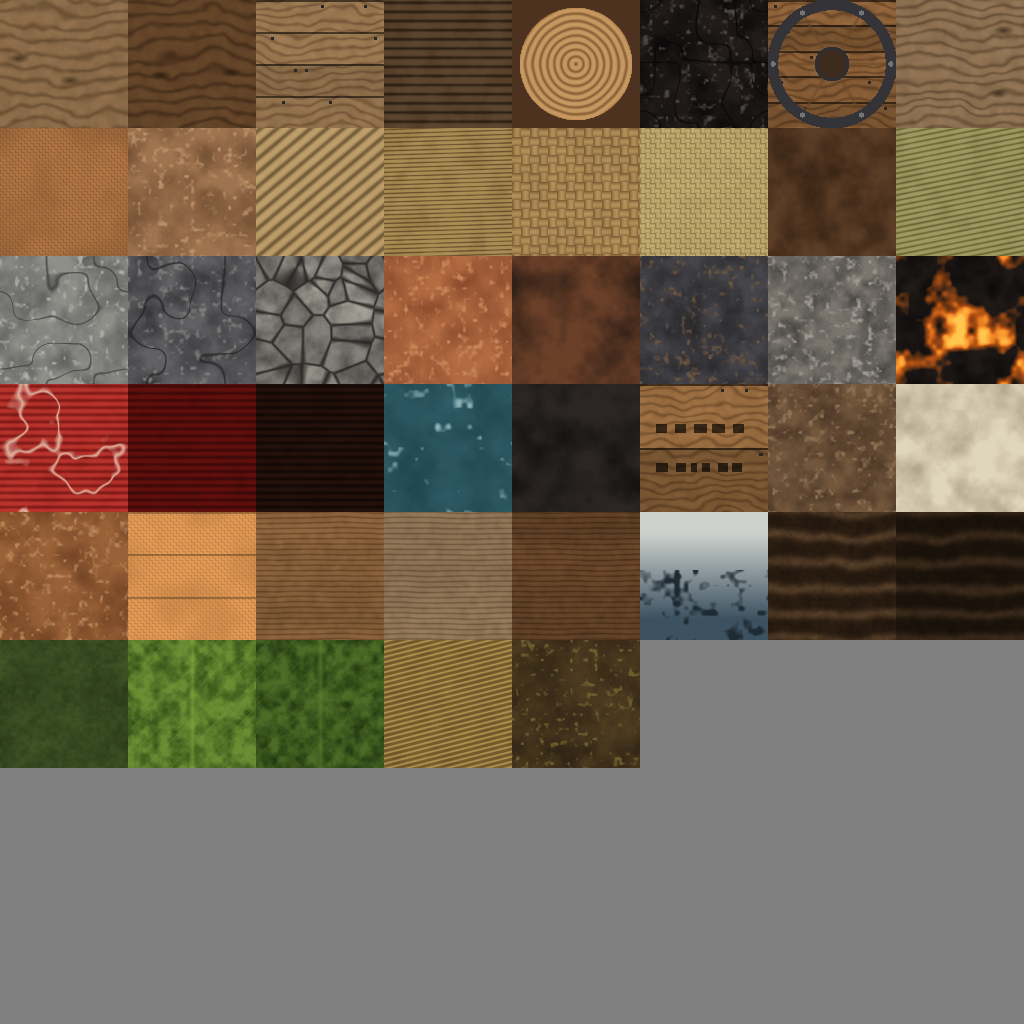
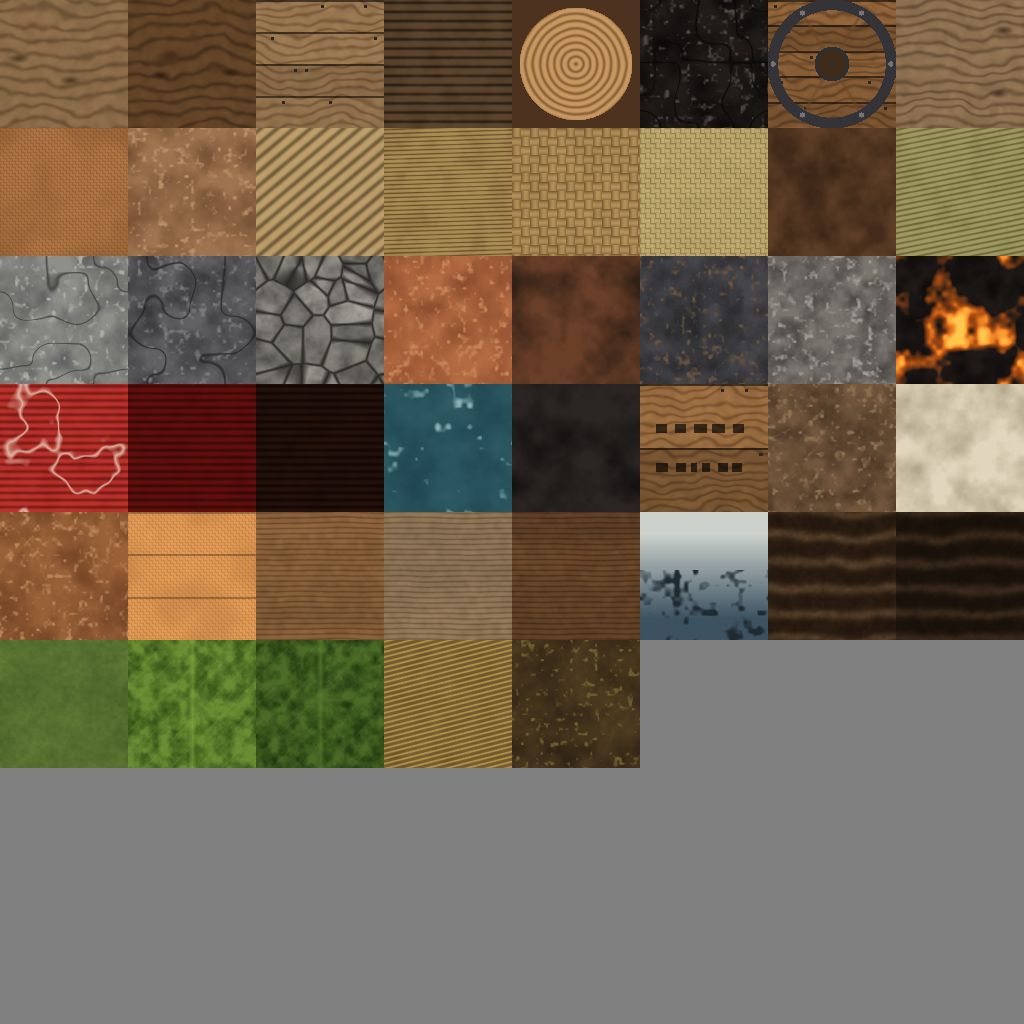
dsc: FARMKIT: farm plots, crop stages, paths and farm...: M2 path group: path_dirt, path_dirt_corner, path_stone, path
Added the four path tiles to farmkit.py: path_dirt (2x2 m grass base + packed dirt square + pebbles), path_dirt_corner (L of packed dirt, grass inside the turn), path_stone (3x3 flat cobbles in a dirt bed), path_stone_corner (L of cobbles). All tiles <= 0.05 m high (max y 0.05). Lightened the grass tile so path edges read against the terrain. GLBs 96-144 tris, 1 material. verify farmkit m2 -> VERIFY STAGE 1 PASS.

Changed region(s): [[0.0, 0.625, 0.125, 0.75]]

diff --git a/tools/blender/structures/farmkit.py b/tools/blender/structures/farmkit.py
@@ -146,55 +146,64 @@ def _grass_base(p, size=2.0):
     p.box((size, size, 0.014), (0, 0, 0.007), "grass", tile_m=1.0)
 
 
-def _corner_grass(p):
-    """The inside of the turn: a grass wedge in one corner, so four corners read as a loop."""
-    p.box((0.98, 0.98, 0.045), (-0.5, -0.5, 0.0225), "grass", tile_m=0.9)
+def _dirt_pad(p, x, y, sx, sy, z=0.012, h=0.03):
+    """A patch of packed dirt on the tile."""
+    p.box((sx, sy, h), (x, y, z + h / 2), "dirt", tile_m=1.0)
 
 
 def path_dirt():
-    """Packed dirt path tile, 2 x 2 m, 0.04 m high, with a grass fringe at the edges."""
+    """Packed dirt path tile, 2 x 2 m, 0.04 m high, its edges blending into the grass."""
     p = Part("path_dirt")
     _grass_base(p)
-    p.box((1.82, 1.82, 0.032), (0, 0, 0.026), "dirt", tile_m=1.0)
+    # the packed surface does not reach the tile edge: grass creeps in from all sides
+    _dirt_pad(p, 0, 0, 1.78, 1.78)
     for i, (x, y, r) in enumerate(((-0.55, 0.42, 0.06), (0.48, -0.3, 0.05), (0.15, 0.62, 0.045), (-0.7, -0.55, 0.05))):
-        p.rock(r, (x, y, 0.042), tile="stone", squash=(1.3, 1.0, 0.5), seed=210 + i)
+        p.rock(r, (x, y, 0.04), tile="stone", squash=(1.3, 1.0, 0.5), seed=210 + i)
     return [(p, (0, 0, 0))]
 
 
 def path_dirt_corner():
-    """Dirt path corner tile: the same surface with a grass wedge in the inside of the turn."""
+    """Dirt path corner tile: the packed surface turns, and the inside of the turn stays grass."""
     p = Part("path_dirt_corner")
     _grass_base(p)
-    p.box((1.82, 1.82, 0.032), (0, 0, 0.026), "dirt", tile_m=1.0)
-    _corner_grass(p)
+    # an L of packed dirt: the strip along +X and the strip along +Y meet in the far corner
+    _dirt_pad(p, 0.0, 0.45, 1.78, 0.88)
+    _dirt_pad(p, 0.45, 0.0, 0.88, 1.78)
     for i, (x, y, r) in enumerate(((0.5, 0.45, 0.055), (-0.2, 0.66, 0.05), (0.62, -0.1, 0.05))):
-        p.rock(r, (x, y, 0.042), tile="stone", squash=(1.3, 1.0, 0.5), seed=220 + i)
+        p.rock(r, (x, y, 0.04), tile="stone", squash=(1.3, 1.0, 0.5), seed=220 + i)
     return [(p, (0, 0, 0))]
 
 
-def _stone_slab(p):
-    p.box((1.86, 1.86, 0.026), (0, 0, 0.027), "soil_dark", tile_m=1.0)
-    stones = ((-0.55, -0.5, 0.46, 0.42), (0.02, -0.52, 0.5, 0.4), (0.6, -0.42, 0.42, 0.5),
-              (-0.6, 0.08, 0.44, 0.46), (0.0, 0.06, 0.52, 0.44), (0.58, 0.12, 0.46, 0.44),
-              (-0.5, 0.66, 0.5, 0.38), (0.1, 0.64, 0.44, 0.42), (0.62, 0.64, 0.42, 0.4))
-    for i, (x, y, w, d) in enumerate(stones):
-        p.box((w, d, 0.026), (x, y, 0.038), "cobble", rot=(0, 0, 12 * (i % 5) - 24), tile_m=0.5)
+def _cobbles(p, cells):
+    """Flat cobble stones on a grid: cells is a list of (col, row) on a 3 x 3 grid over the tile,
+    col 0 at -X and row 0 at -Y."""
+    w = 0.54
+    for i, (c, r) in enumerate(cells):
+        x = -0.6 + c * 0.6
+        y = -0.6 + r * 0.6
+        p.box((w, w, 0.022), (x, y, 0.036), "cobble", rot=(0, 0, 12 * (i % 5) - 24), tile_m=0.5)
 
 
 def path_stone():
     """Stone path tile, 2 x 2 m: flat cobbles bedded in dirt, grass at the edges."""
     p = Part("path_stone")
     _grass_base(p)
-    _stone_slab(p)
+    p.box((1.78, 1.78, 0.024), (0, 0, 0.024), "soil_dark", tile_m=1.0)
+    _cobbles(p, [(c, r) for c in range(3) for r in range(3)])
     return [(p, (0, 0, 0))]
 
 
 def path_stone_corner():
-    """Stone path corner tile: cobbles with a grass wedge in the inside of the turn."""
+    """Stone path corner tile: the cobbles turn and the inside of the turn stays grass."""
     p = Part("path_stone_corner")
     _grass_base(p)
-    _stone_slab(p)
-    _corner_grass(p)
+    # dirt bed under the L of stones, the near corner left as grass
+    for c in range(3):
+        p.box((0.56, 0.56, 0.024), (-0.6 + c * 0.6, 0.0, 0.024), "soil_dark", tile_m=0.7)
+    for r in range(3):
+        p.box((0.56, 0.56, 0.024), (0.0, -0.6 + r * 0.6, 0.024), "soil_dark", tile_m=0.7)
+    cells = sorted({(c, 1) for c in range(3)} | {(1, r) for r in range(3)})
+    _cobbles(p, cells)
     return [(p, (0, 0, 0))]
 
 

diff --git a/tools/blender/structures/lib.py b/tools/blender/structures/lib.py
@@ -393,7 +393,7 @@ def paint_atlas():
         # crop leaves for the four growth stages, straw and compost for the farm props
         "soil": _furrows(41, (0.34, 0.25, 0.16), (0.15, 0.1, 0.06)),
         "soil_dark": _furrows(42, (0.24, 0.17, 0.11), (0.1, 0.07, 0.04)),
-        "grass": _grass(43, (0.28, 0.36, 0.16), (0.13, 0.19, 0.08)),
+        "grass": _grass(43, (0.4, 0.5, 0.22), (0.26, 0.35, 0.14)),
         "crop_leaf": _leaf(44, (0.42, 0.55, 0.2), (0.2, 0.32, 0.09)),
         "crop_leaf_dark": _leaf(45, (0.3, 0.42, 0.15), (0.13, 0.22, 0.06)),
         "straw": _straw(46, (0.68, 0.56, 0.3), (0.42, 0.32, 0.15)),
